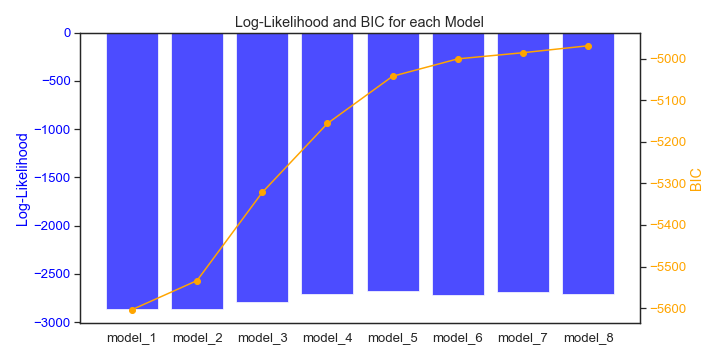
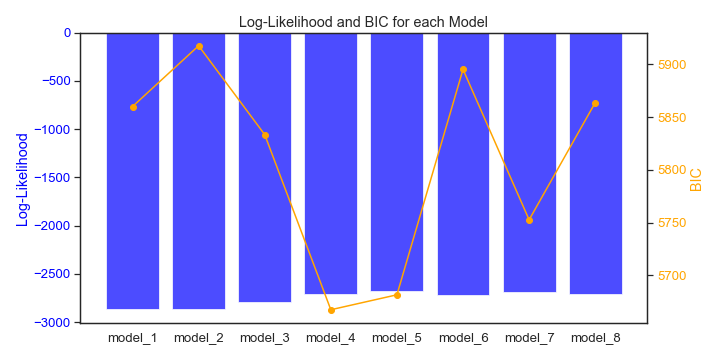
fix BIC computations.

Changed region(s): [[0.1833, 0.0306, 0.825, 0.8861], [0.825, 0.0917, 0.9778, 0.9167], [0.1528, 0.9167, 0.8556, 0.9778]]

diff --git a/hw-4/instrumental-interactions/model_template.py b/hw-4/instrumental-interactions/model_template.py
@@ -585,7 +585,9 @@ def BIC(n, k, log_likelihood):
     log_likelihood: float   
         The log-likelihood of the model
     """
-    return k * np.log(n) - 2 * log_likelihood
+    retval= k * np.log(n) - 2 * log_likelihood
+    print(f'BIC: {retval}')
+    return retval
 
 #%%
 PARAMS = {
@@ -793,7 +795,7 @@ def fit_model(df, model, model_id, method='Nelder-Mead', use_cache=True):
         print(f"model {model_id} subject {subject_id}: params = {params}, negative-log-likelihood = {negative_log_likelihood}")
                 
     # compute BIC
-    subject_bics = [BIC(r["num_trials"], r["num_params"], r["negative_log_likelihood"]) for r in subject_results]
+    subject_bics = [BIC(r["num_trials"], r["num_params"], -r["negative_log_likelihood"]) for r in subject_results]
     subject_neg_log_likelihoods = [r["negative_log_likelihood"] for r in subject_results]
     model_bic = np.sum(subject_bics)
     model_neg_log_likelihood = np.sum(subject_neg_log_likelihoods)
